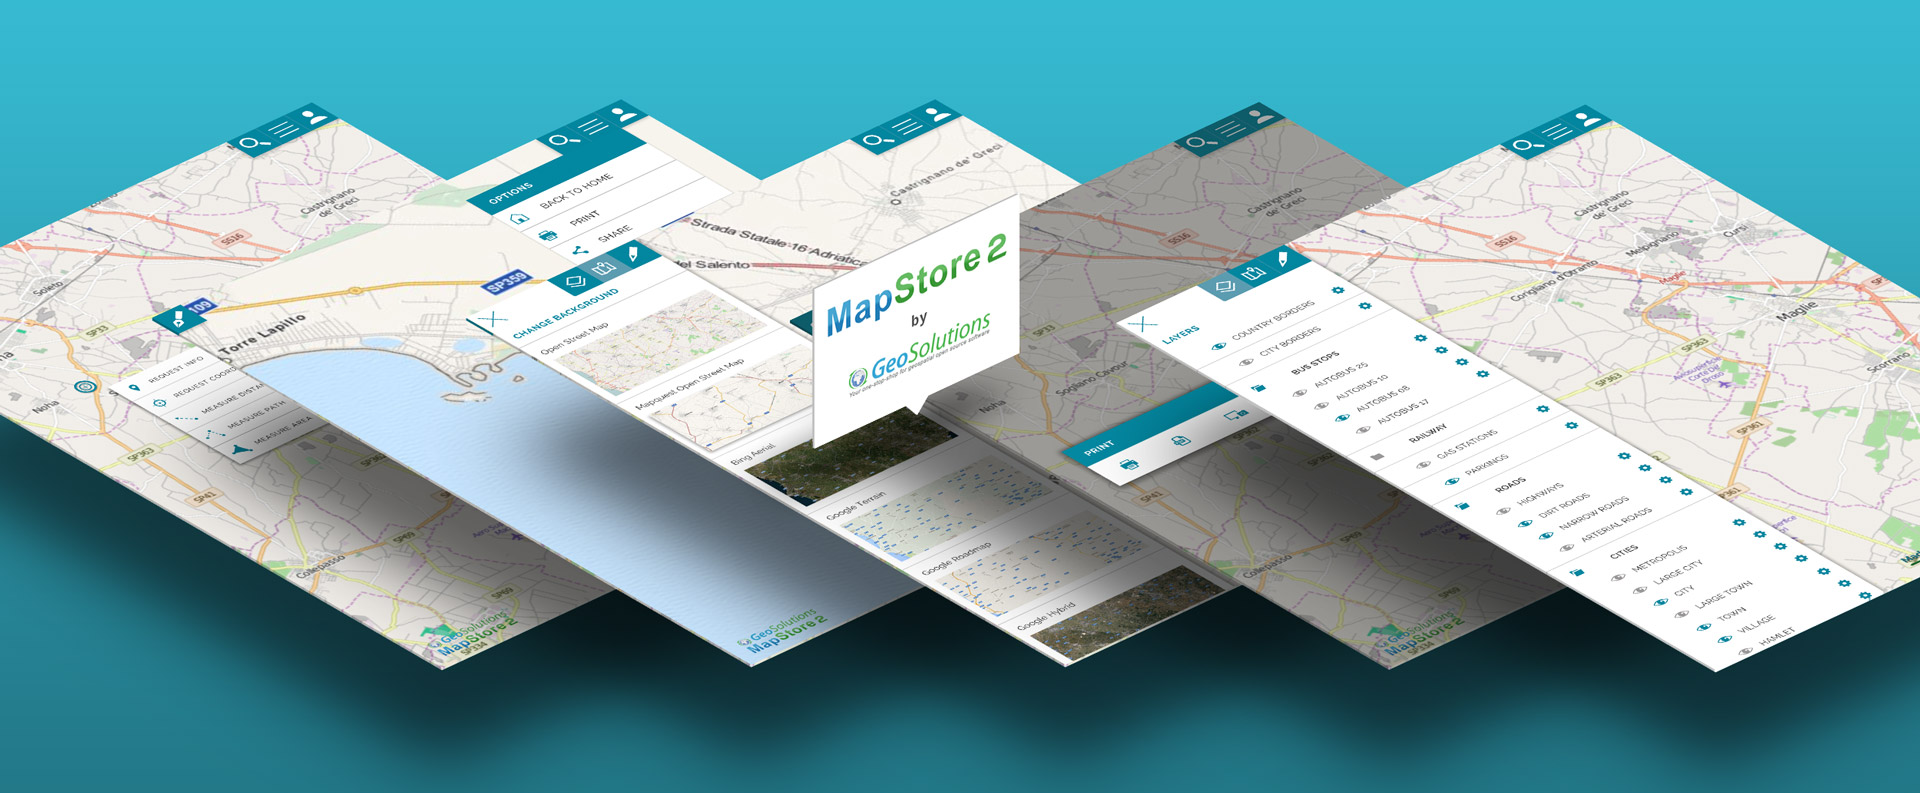
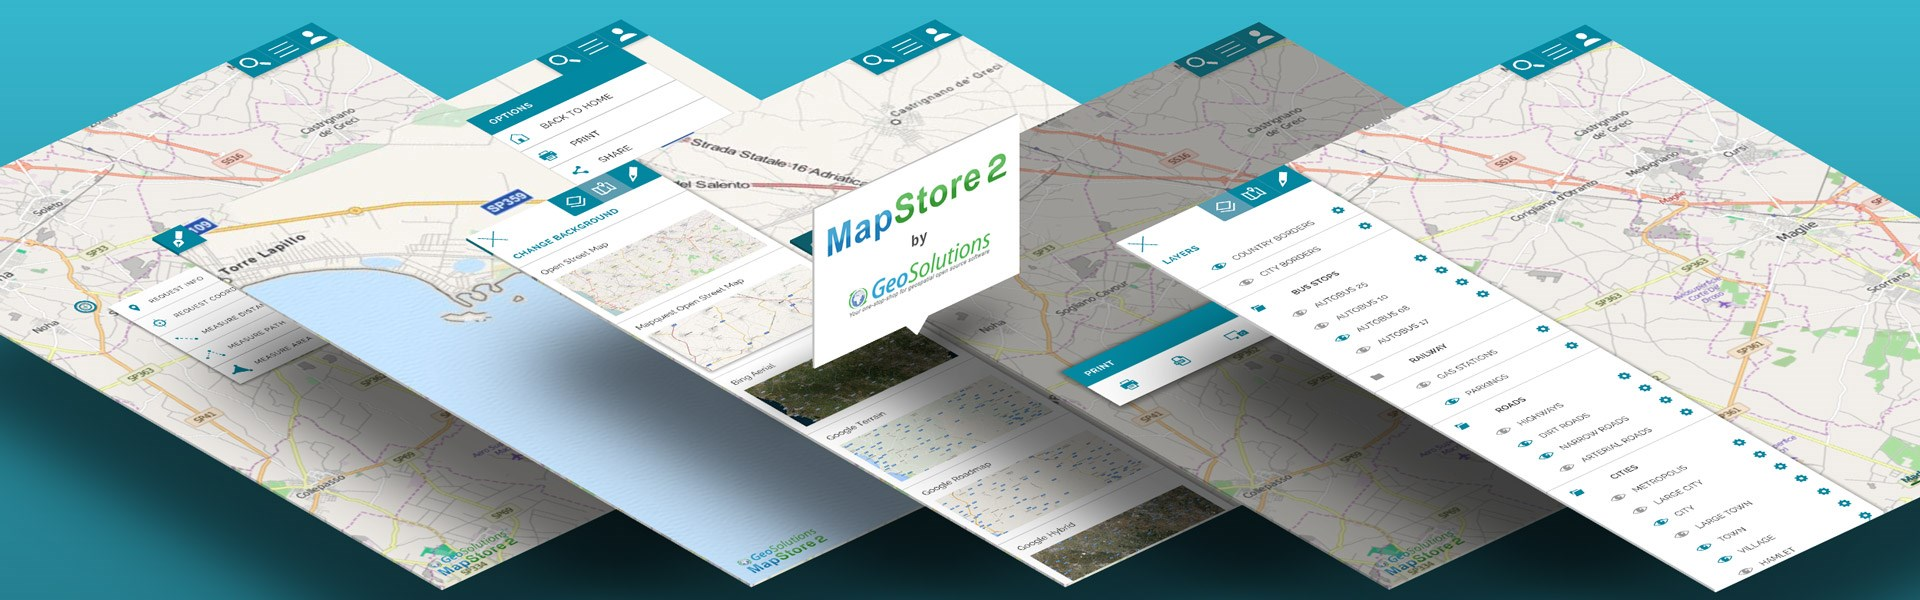
Reduce header size

diff --git a/web/client/product/assets/css/maps.css b/web/client/product/assets/css/maps.css
@@ -1,6 +1,6 @@
 .page-maps .mapstore-header {
     background-image: url('../img/mapstore-header.jpg');
-    height: 400px;
+    height: 300px;
     width: 100%;
     background-size: cover;
     background-repeat: no-repeat;
